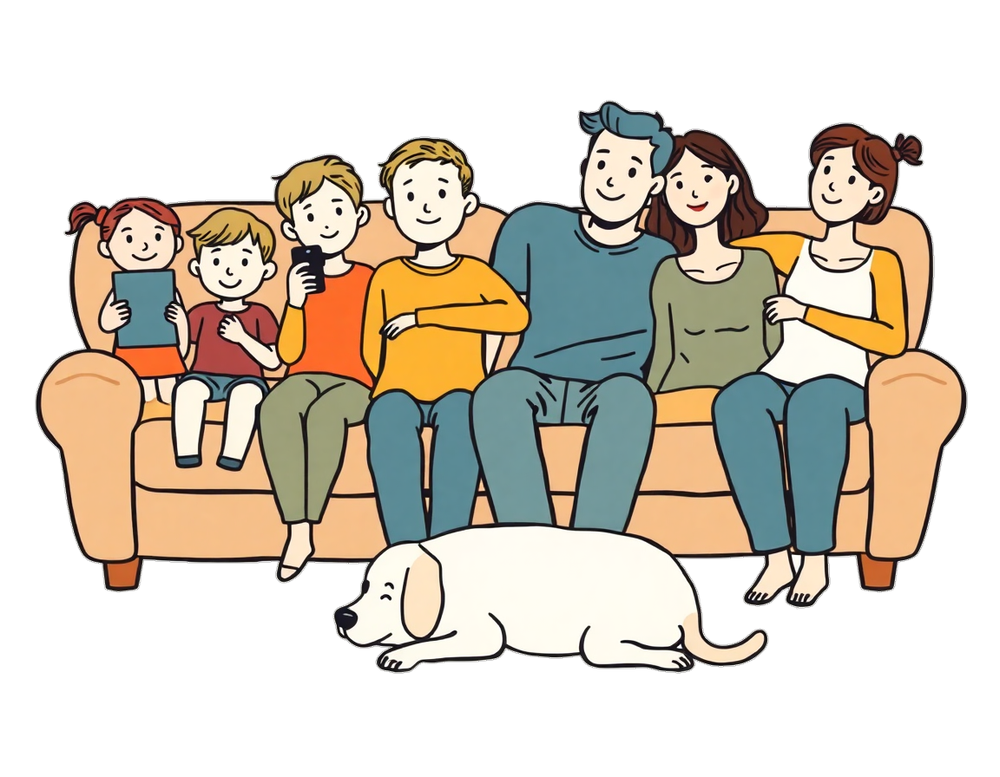
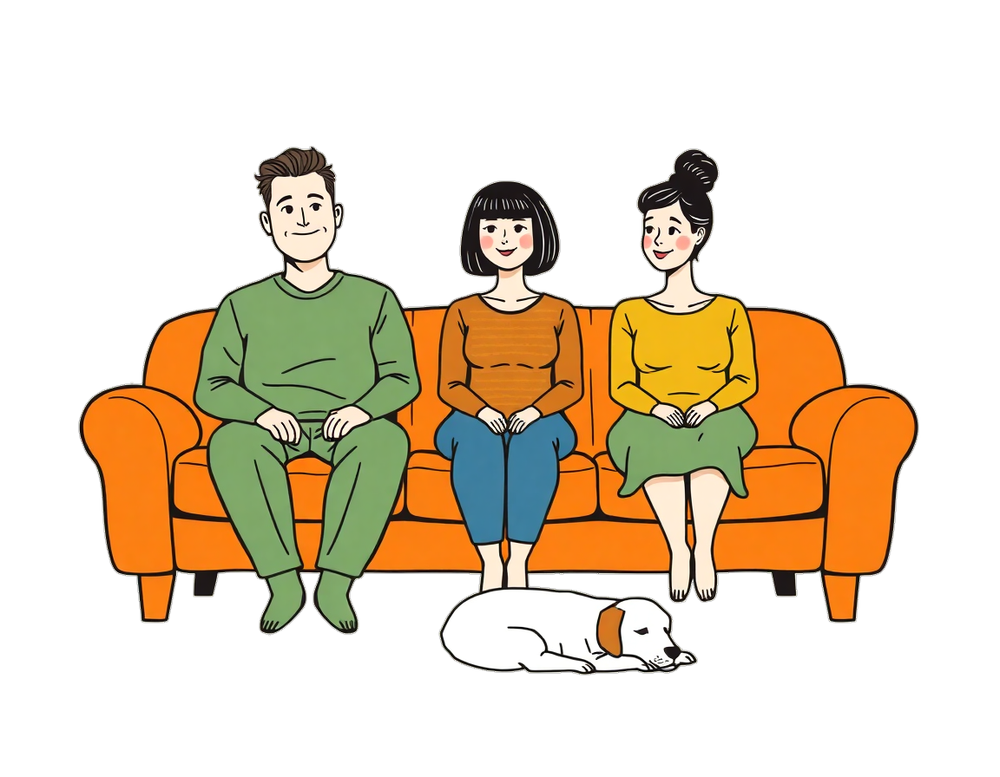
Hero illustration v2: three grown-ups, complete legs, dog; per review

diff --git a/index.html b/index.html
@@ -183,7 +183,7 @@
       </div>
     </div>
     <div class="hero-art">
-      <img src="assets/hero-family.png" alt="A family on the couch, sketched: a younger child on a tablet, an older kid on a phone, the parents with them, everyone looking forward, the dog asleep on the floor.">
+      <img src="assets/hero-family.png" alt="Three grown-ups sitting together on a couch, sketched by hand: a man, then two women beside him, all looking forward together, with the family dog asleep on the floor in front of them.">
     </div>
   </div>
 </section>
